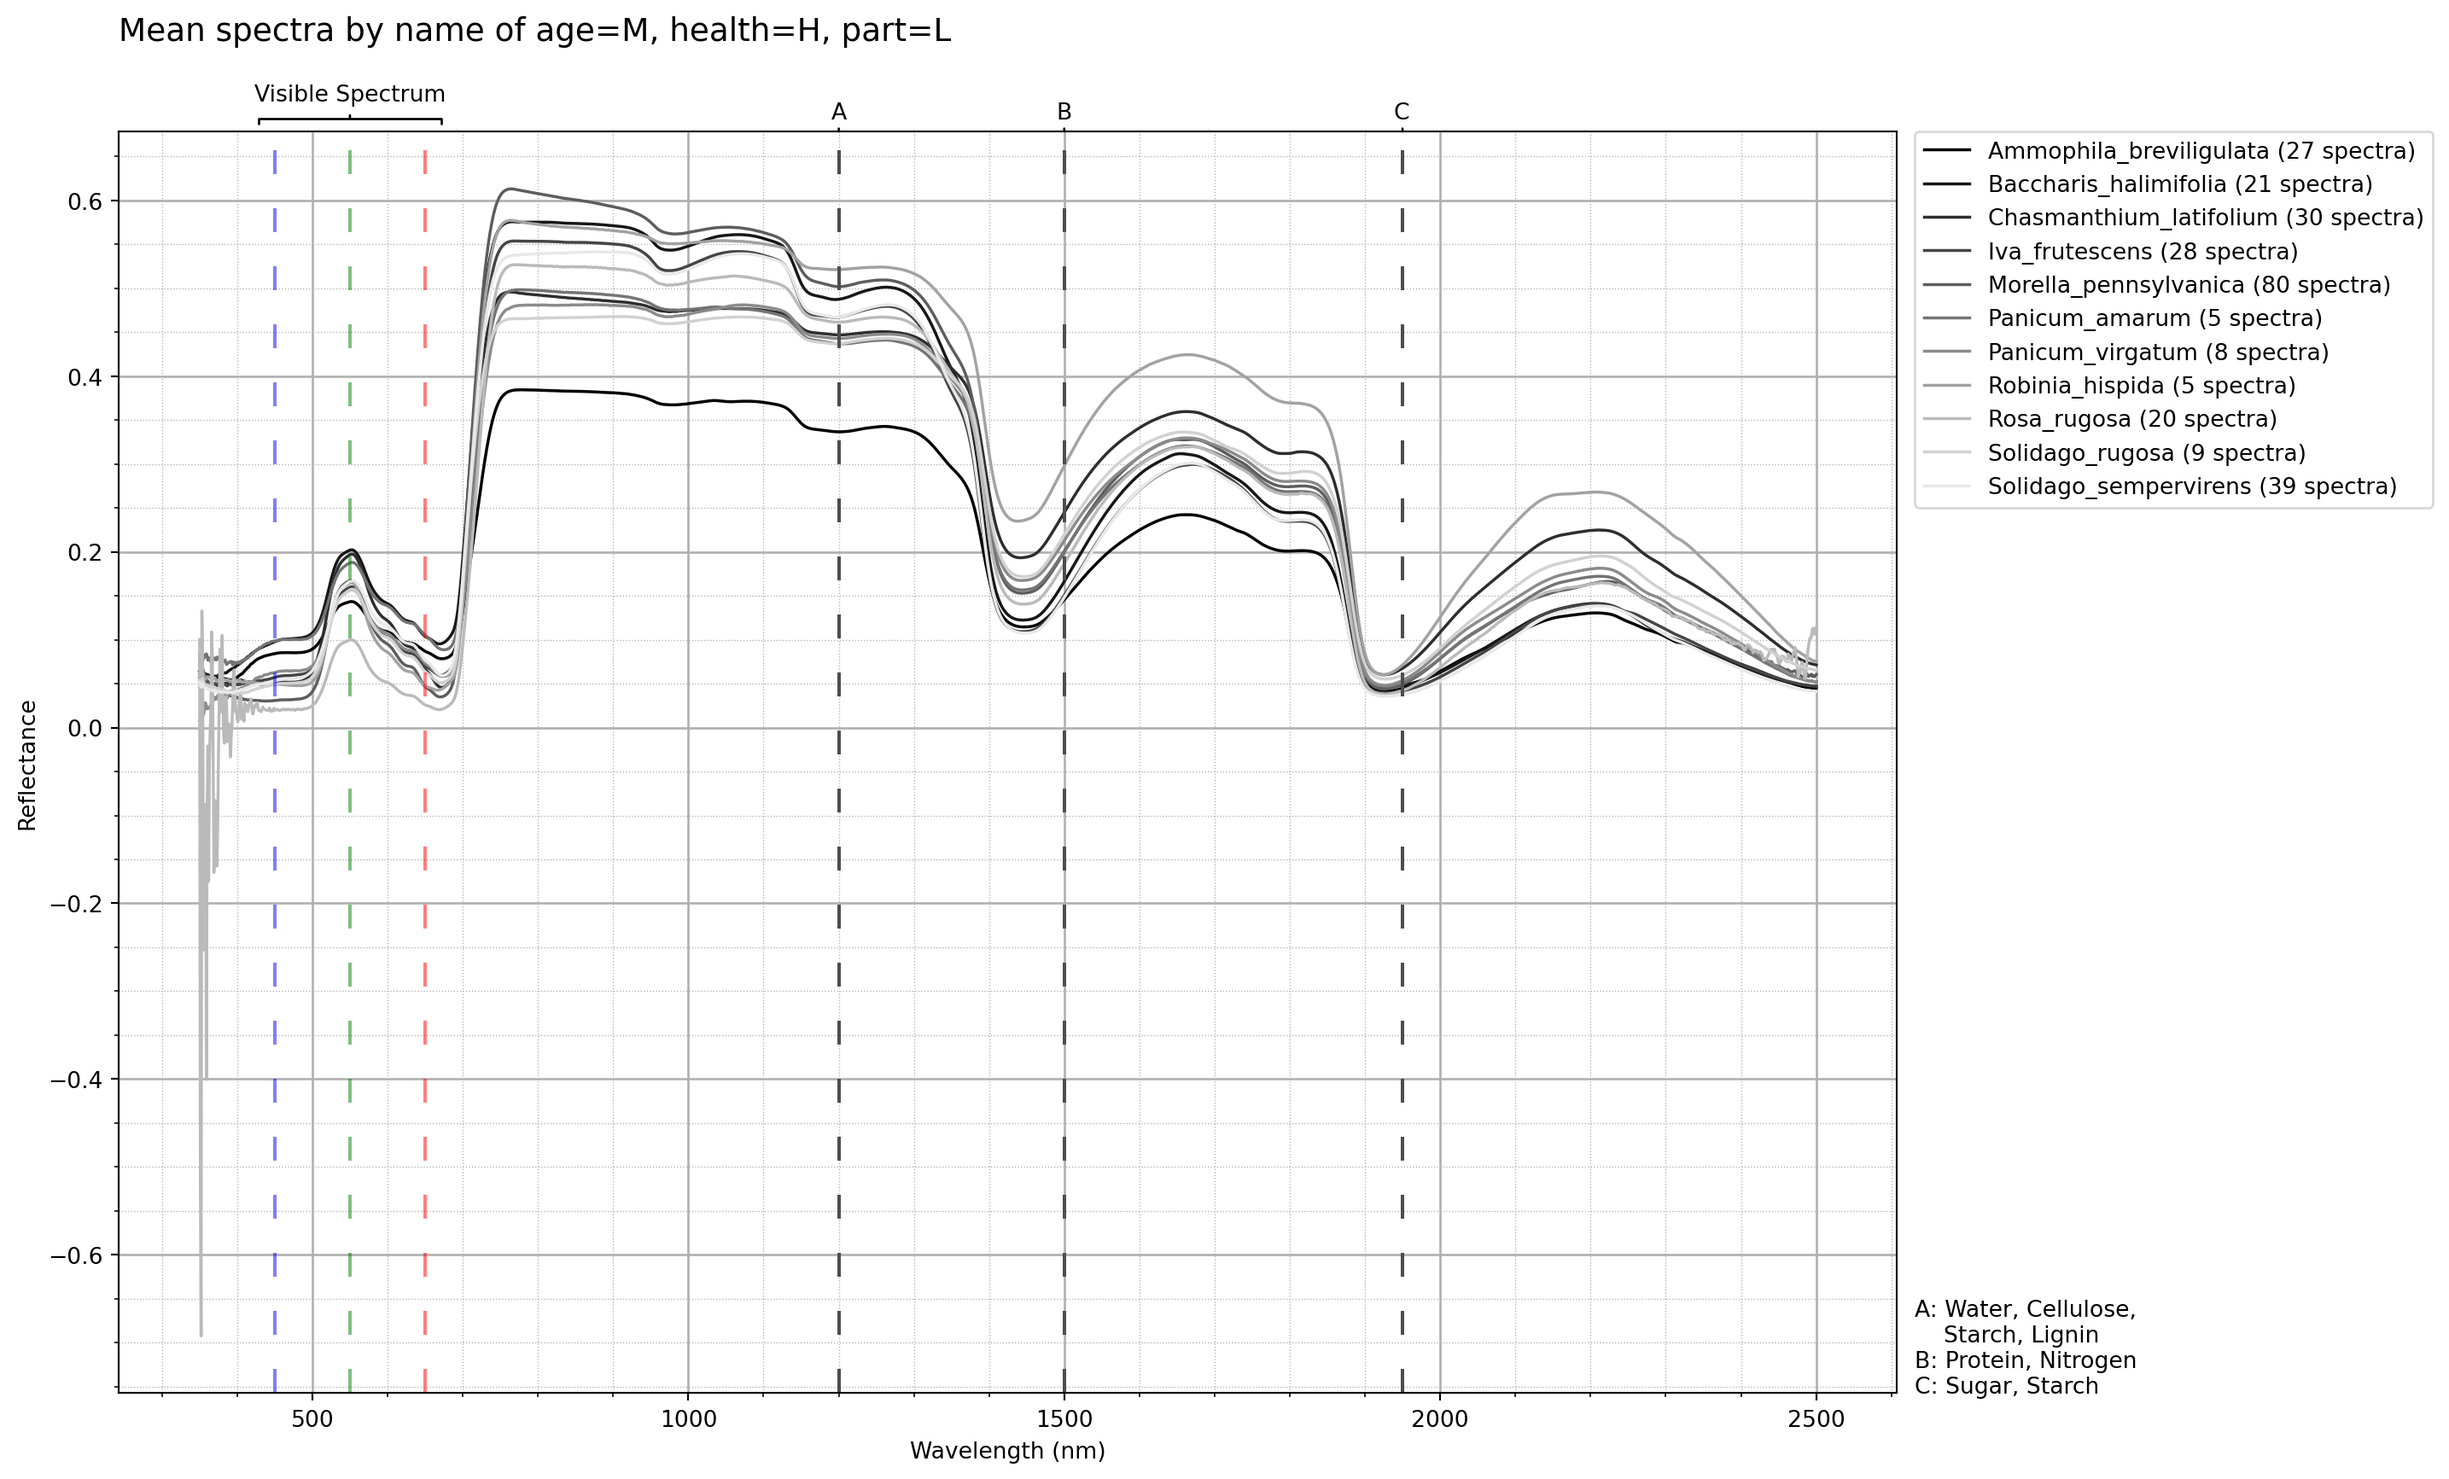
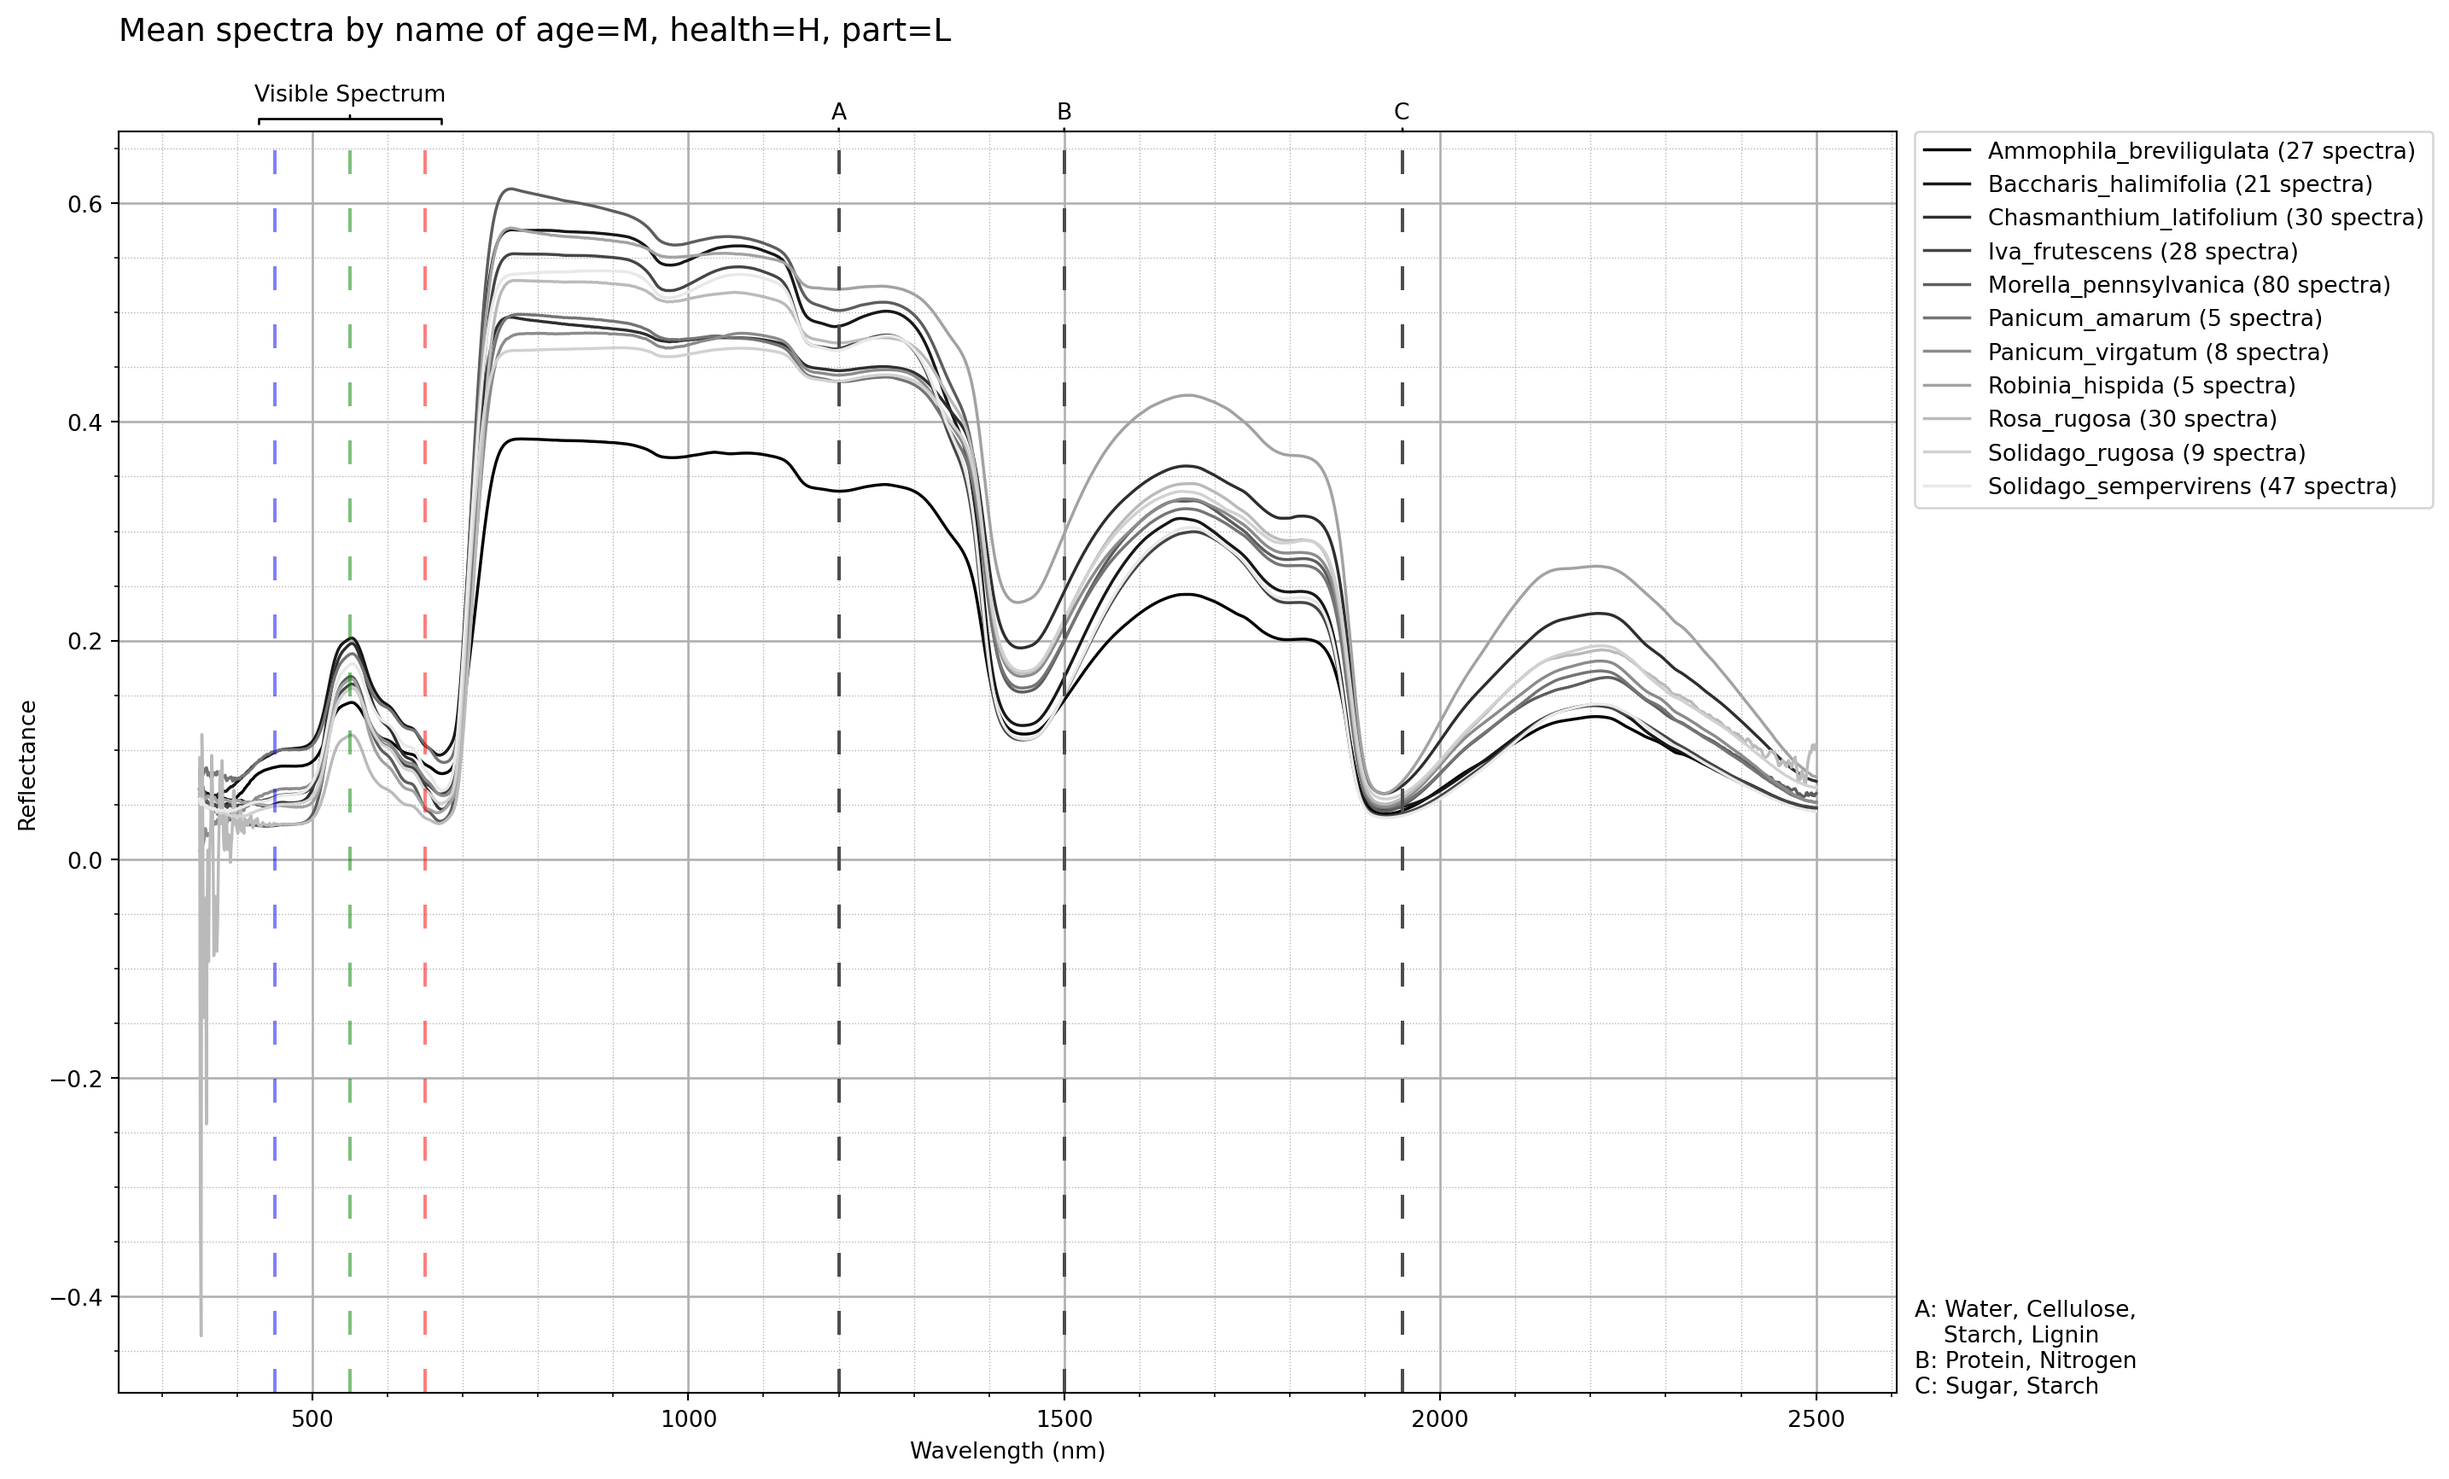
Built site for gh-pages

Changed region(s): [[0.031, 0.1246, 0.7755, 0.6544]]

diff --git a/reports/Report1.html b/reports/Report1.html
@@ -152,7 +152,7 @@ ul.task-list li input[type="checkbox"] {
 
 <section id="spectral-library" class="level2 page-columns page-full">
 <h2 class="anchored" data-anchor-id="spectral-library">Spectral Library</h2>
-<p>Number of Spectra: 5466</p>
+<p>Number of Spectra: 5734</p>
 <div id="cell-table1" class="cell page-columns page-full" data-execution_count="9">
 <div id="table1" class="cell-output cell-output-display column-page-inset-right" data-execution_count="9">
 <div>
@@ -483,21 +483,21 @@ ul.task-list li input[type="checkbox"] {
 </tr>
 <tr class="odd">
 <td data-quarto-table-cell-role="th">Rosa_rugosa</td>
-<td>336</td>
-<td>96</td>
-<td>169</td>
-<td>24</td>
+<td>488</td>
+<td>127</td>
+<td>196</td>
+<td>43</td>
 <td>0</td>
-<td>27</td>
-<td>20</td>
+<td>53</td>
+<td>69</td>
 <td>0</td>
 <td>0</td>
 <td>59</td>
 <td>136</td>
-<td>64</td>
-<td>77</td>
+<td>150</td>
+<td>143</td>
 <td>3</td>
-<td>284</td>
+<td>436</td>
 <td>8</td>
 <td>0</td>
 <td>0</td>
@@ -506,15 +506,15 @@ ul.task-list li input[type="checkbox"] {
 <td>0</td>
 <td>0</td>
 <td>0</td>
-<td>74</td>
+<td>226</td>
 <td>0</td>
 <td>0</td>
 </tr>
 <tr class="even">
 <td data-quarto-table-cell-role="th">Solidago_rugosa</td>
-<td>276</td>
-<td>4</td>
-<td>239</td>
+<td>327</td>
+<td>25</td>
+<td>269</td>
 <td>22</td>
 <td>0</td>
 <td>0</td>
@@ -522,11 +522,11 @@ ul.task-list li input[type="checkbox"] {
 <td>0</td>
 <td>0</td>
 <td>24</td>
-<td>16</td>
-<td>215</td>
+<td>32</td>
+<td>250</td>
 <td>21</td>
 <td>34</td>
-<td>122</td>
+<td>173</td>
 <td>0</td>
 <td>0</td>
 <td>0</td>
@@ -541,21 +541,21 @@ ul.task-list li input[type="checkbox"] {
 </tr>
 <tr class="odd">
 <td data-quarto-table-cell-role="th">Solidago_sempervirens</td>
-<td>384</td>
-<td>31</td>
-<td>300</td>
+<td>449</td>
+<td>60</td>
+<td>327</td>
 <td>9</td>
 <td>0</td>
-<td>0</td>
+<td>9</td>
 <td>23</td>
 <td>0</td>
 <td>0</td>
 <td>7</td>
-<td>150</td>
-<td>95</td>
-<td>95</td>
+<td>167</td>
+<td>114</td>
+<td>124</td>
 <td>27</td>
-<td>241</td>
+<td>306</td>
 <td>18</td>
 <td>0</td>
 <td>15</td>
@@ -708,7 +708,7 @@ ul.task-list li input[type="checkbox"] {
 <div class="cell-output cell-output-display page-columns page-full">
 <div class="page-columns page-full">
 <figure class="figure page-columns page-full">
-<p class="page-columns page-full"><img src="Report1_files/figure-html/cell-19-output-1.png" width="1443" height="867" class="figure-img column-page"></p>
+<p class="page-columns page-full"><img src="Report1_files/figure-html/cell-19-output-1.png" width="1435" height="867" class="figure-img column-page"></p>
 </figure>
 </div>
 </div>
